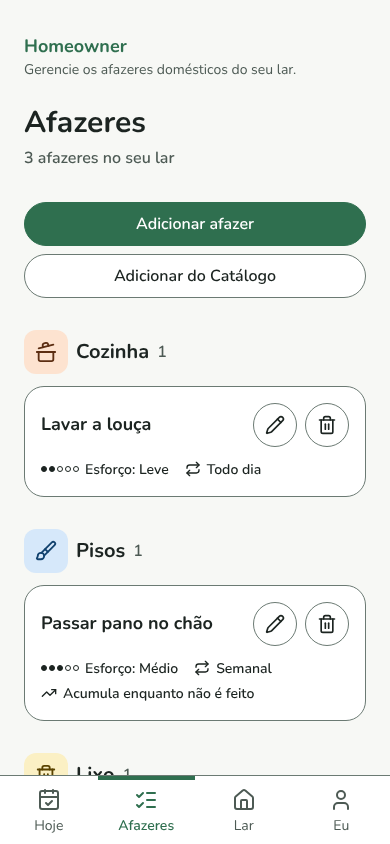
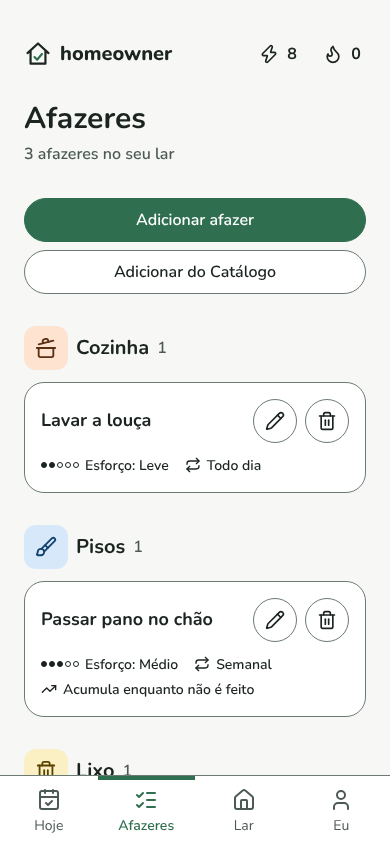
docs(readme): refresh the screenshots and add a script to capture them
Claude-Session: https://claude.ai/code/session_01H3exk9V9Yhjoop2A1XC79p

diff --git a/web/e2e/readme/screenshots.capture.ts b/web/e2e/readme/screenshots.capture.ts
@@ -1,0 +1,90 @@
+import { test, expect } from "../fixtures";
+import { signedInHandlers } from "../mocks/handlers/signedIn";
+import { uncheckedDay } from "../mocks/handlers/today";
+import { RESIDENT_EMAIL, signedInResident, withExplanation } from "../mocks/sampleHome";
+import { seedSession } from "../mocks/session";
+import { launchApp } from "../pages/launch";
+import type { FakeState } from "../mocks/api";
+import type { PlanTask } from "../../src/domains/dayplan/api/api";
+
+// The README screenshots: five screens per locale, a 390x844 phone, sample data only.
+// Run with `npx playwright test -c playwright.readme.config.ts` after `npm run build:e2e`.
+
+const OUT = "../docs/screenshots";
+
+const LOCALES = [
+  {
+    locale: "pt-BR",
+    file: "pt-BR",
+    nav: { chores: "Afazeres", home: "Lar", me: "Eu" },
+    chores: { "chore-1": "Lavar a louça", "chore-2": "Passar pano no chão", "chore-3": "Levar o lixo para fora" },
+  },
+  {
+    locale: "en-US",
+    file: "en",
+    nav: { chores: "Chores", home: "Home", me: "Me" },
+    chores: { "chore-1": "Wash the dishes", "chore-2": "Mop the floors", "chore-3": "Take out the trash" },
+  },
+] as const;
+
+/** The sample Home, with a named Resident and the Chore names in the locale. */
+function sample(names: Record<string, string>, checkedIn: boolean): FakeState {
+  const state = withExplanation(signedInResident(), "llm");
+  state.user = { ...state.user!, displayName: "Abner" };
+  state.residents = state.residents?.map((r) => (r.you ? { ...r, name: "Abner" } : r));
+  state.chores = state.chores.map((c) => ({ ...c, name: names[c.id] ?? c.name }));
+  // Real allocator reasons, and a plan a visitor can trust: the Mop (bending) goes to Bruna, not to Abner, who
+  // cannot bend.
+  const plan = state.dayPlan!;
+  const [dishes, mop] = plan.mine as [PlanTask, PlanTask];
+  const trash = plan.others[0]!.tasks[0]!;
+  const as = (t: PlanTask, reason: string, windowEnd = t.windowEnd): PlanTask => ({ ...t, reason, windowEnd, choreName: names[t.choreId] ?? t.choreName });
+  plan.mine = [as(dishes, "liked"), as(trash, "deadline_today", "2030-01-15")];
+  plan.others = [{ residentId: "resident-2", tasks: [as(mop, "lateness")] }];
+  plan.pool = [];
+  if (!checkedIn) state.checkIn = uncheckedDay();
+  return state;
+}
+
+for (const l of LOCALES) {
+  test.describe(l.locale, () => {
+    test.use({ locale: l.locale, viewport: { width: 390, height: 844 }, deviceScaleFactor: 1 });
+
+    test.beforeEach(async ({ page, fakeApi }) => {
+      fakeApi.use(signedInHandlers);
+      await seedSession(page, { email: RESIDENT_EMAIL });
+      // The fake plans 2030-01-15, so the app's clock reads that day too.
+      await page.clock.setFixedTime(new Date("2030-01-15T10:30:00-03:00"));
+    });
+
+    test.describe("checked in", () => {
+      test.use({ fakeState: sample(l.chores, true) });
+
+      test("today, chores, home, me", async ({ page, baseURL }) => {
+        await launchApp(page, baseURL!);
+        await expect(page.getByText(l.chores["chore-1"], { exact: true }).first()).toBeVisible();
+        await page.screenshot({ path: `${OUT}/today-${l.file}.png` });
+
+        for (const [tab, name] of [["chores", l.nav.chores], ["home", l.nav.home], ["me", l.nav.me]] as const) {
+          await page.getByRole("link", { name, exact: true }).click();
+          await expect(page.getByRole("heading", { level: 2 }).first()).toBeVisible();
+          await page.waitForLoadState("networkidle");
+          await page.screenshot({ path: `${OUT}/${tab}-${l.file}.png` });
+        }
+      });
+    });
+
+    test.describe("not checked in", () => {
+      test.use({ fakeState: sample(l.chores, false) });
+
+      test("check-in", async ({ page, baseURL }) => {
+        await launchApp(page, baseURL!);
+        await expect(page.getByRole("dialog")).toBeVisible();
+        await page.waitForLoadState("networkidle");
+        // The dialog focuses its title on open; drop the focus ring from the picture.
+        await page.evaluate(() => (document.activeElement as HTMLElement | null)?.blur());
+        await page.screenshot({ path: `${OUT}/checkin-${l.file}.png` });
+      });
+    });
+  });
+}

diff --git a/web/playwright.readme.config.ts b/web/playwright.readme.config.ts
@@ -1,0 +1,12 @@
+import { defineConfig } from "@playwright/test";
+import base from "./playwright.config";
+
+// Captures the README screenshots into docs/screenshots/: `npm run build:e2e && npx playwright test -c playwright.readme.config.ts`.
+// Kept out of the e2e suite (its own testDir), so CI never rewrites the images.
+export default defineConfig({
+  ...base,
+  testDir: "./e2e/readme",
+  testMatch: "**/*.capture.ts",
+  fullyParallel: false,
+  workers: 1,
+});

diff --git a/docs/development.md b/docs/development.md
@@ -114,6 +114,20 @@ npm run preview             # serve the build to test the manifest and install
 
 CI runs `npm ci`, `npm run typecheck` and `npm run build` on every pull request.
 
+### README screenshots
+
+The screenshots in `docs/screenshots/` come from the built app running against the
+end-to-end fakes (sample data, a 390x844 phone, both locales). After a UI change,
+capture them again:
+
+```sh
+cd web
+npm run build:e2e
+npx playwright test -c playwright.readme.config.ts   # rewrites docs/screenshots/*.png
+```
+
+The capture lives in `web/e2e/readme/`, outside the e2e suite, so CI never rewrites the images.
+
 ### Look and feel
 
 Styling is Tailwind CSS v4 over semantic colour tokens (`bg-surface`, `text-muted`; raw

diff --git a/README.md b/README.md
@@ -39,7 +39,7 @@ Most Residents use the app in Brazilian Portuguese, so it is designed pt-BR firs
 
 </details>
 
-<sub>Captured from the app with the end-to-end test fakes (sample data, no real accounts).</sub>
+<sub>Captured from the app with the end-to-end test fakes (sample data, no real accounts). To capture them again, see [README screenshots](docs/development.md#readme-screenshots).</sub>
 
 ## A day in Homeowner
 
